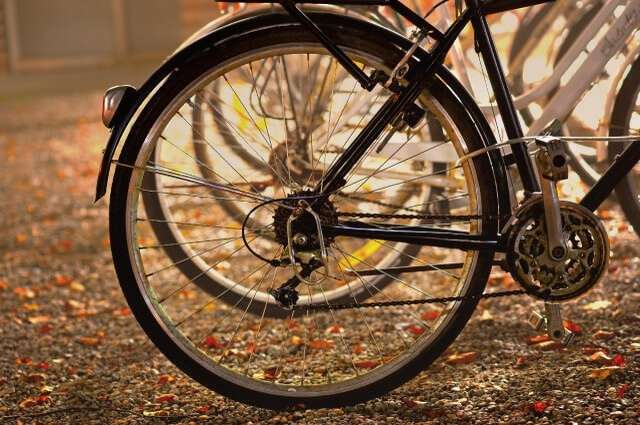
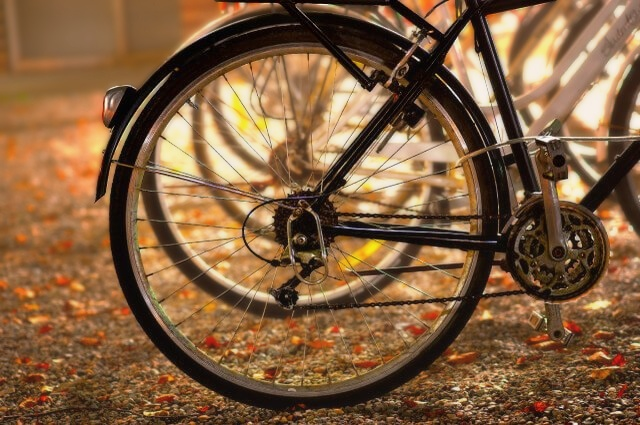
fix orton

diff --git a/mist_effect.py b/mist_effect.py
@@ -119,55 +119,43 @@ def apply_variable_orton_effect(image_float, depth_normalized, blur_strength, ov
     Returns:
         Image with variable Orton effect applied
     """
-    # Create depth layers for Orton effect
-    # We'll process in depth order: distant to close
-    num_layers = 8  # Number of depth layers to process
+    if blur_strength <= 0.0 and overlay_opacity <= 0.0:
+        return image_float
     
+    # Keep the original image sharp as the base
     result = image_float.copy()
     
-    for layer in range(num_layers):
-        # Create mask for this depth layer
-        layer_start = layer / num_layers
-        layer_end = (layer + 1) / num_layers
+    # Create a blurred version of the entire image
+    max_kernel_size = int(blur_strength * 20) + 1
+    if max_kernel_size % 2 == 0:
+        max_kernel_size += 1
+    
+    blurred_image = cv2.GaussianBlur(image_float, (max_kernel_size, max_kernel_size), 0)
+    
+    # Create depth-aware blending mask
+    # Distant objects (lower depth values) get more blur
+    # Close objects (higher depth values) stay sharp
+    blur_mask = 1.0 - depth_normalized  # Invert so distant = high blur, close = low blur
+    
+    # Apply blur effect: blend blurred image with original based on depth
+    blur_mask_3d = np.stack([blur_mask] * 3, axis=-1)
+    result = result * (1.0 - blur_strength * blur_mask_3d) + blurred_image * (blur_strength * blur_mask_3d)
+    
+    # Apply overlay effect if requested
+    if overlay_opacity > 0.0:
+        # Create overlay effect (brighten and increase saturation)
+        overlay = result.copy()
         
-        # Mask for pixels in this depth range (distant objects have lower depth values)
-        layer_mask = ((depth_normalized >= layer_start) & (depth_normalized < layer_end)).astype(np.float32)
+        # Brighten the overlay
+        overlay = np.clip(overlay * 1.2, 0.0, 1.0)
         
-        if np.sum(layer_mask) == 0:
-            continue
+        # Increase saturation
+        hsv = cv2.cvtColor((overlay * 255).astype(np.uint8), cv2.COLOR_BGR2HSV).astype(np.float32) / 255.0
+        hsv[:, :, 1] = np.clip(hsv[:, :, 1] * 1.3, 0.0, 1.0)  # Increase saturation
+        overlay = cv2.cvtColor((hsv * 255).astype(np.uint8), cv2.COLOR_HSV2BGR).astype(np.float32) / 255.0
         
-        # Calculate blur and overlay strength for this layer
-        # More distant layers (lower layer index) get stronger effect
-        layer_blur_strength = blur_strength * (1.0 - layer_start)
-        layer_overlay_opacity = overlay_opacity * (1.0 - layer_start)
-        
-        if layer_blur_strength > 0.0:
-            # Apply Gaussian blur to this layer
-            kernel_size = int(layer_blur_strength * 20) + 1
-            if kernel_size % 2 == 0:
-                kernel_size += 1
-            
-            blurred_layer = cv2.GaussianBlur(result, (kernel_size, kernel_size), 0)
-            
-            # Blend the blurred layer with the original using the layer mask
-            layer_mask_3d = np.stack([layer_mask] * 3, axis=-1)
-            result = result * (1.0 - layer_mask_3d) + blurred_layer * layer_mask_3d
-        
-        if layer_overlay_opacity > 0.0:
-            # Create overlay effect (brighten and increase saturation)
-            overlay = result.copy()
-            
-            # Brighten the overlay
-            overlay = np.clip(overlay * 1.2, 0.0, 1.0)
-            
-            # Increase saturation
-            hsv = cv2.cvtColor((overlay * 255).astype(np.uint8), cv2.COLOR_BGR2HSV).astype(np.float32) / 255.0
-            hsv[:, :, 1] = np.clip(hsv[:, :, 1] * 1.3, 0.0, 1.0)  # Increase saturation
-            overlay = cv2.cvtColor((hsv * 255).astype(np.uint8), cv2.COLOR_HSV2BGR).astype(np.float32) / 255.0
-            
-            # Blend overlay with original
-            layer_mask_3d = np.stack([layer_mask] * 3, axis=-1)
-            result = result * (1.0 - layer_overlay_opacity * layer_mask_3d) + overlay * (layer_overlay_opacity * layer_mask_3d)
+        # Blend overlay with original based on depth
+        result = result * (1.0 - overlay_opacity * blur_mask_3d) + overlay * (overlay_opacity * blur_mask_3d)
     
     return result
 
